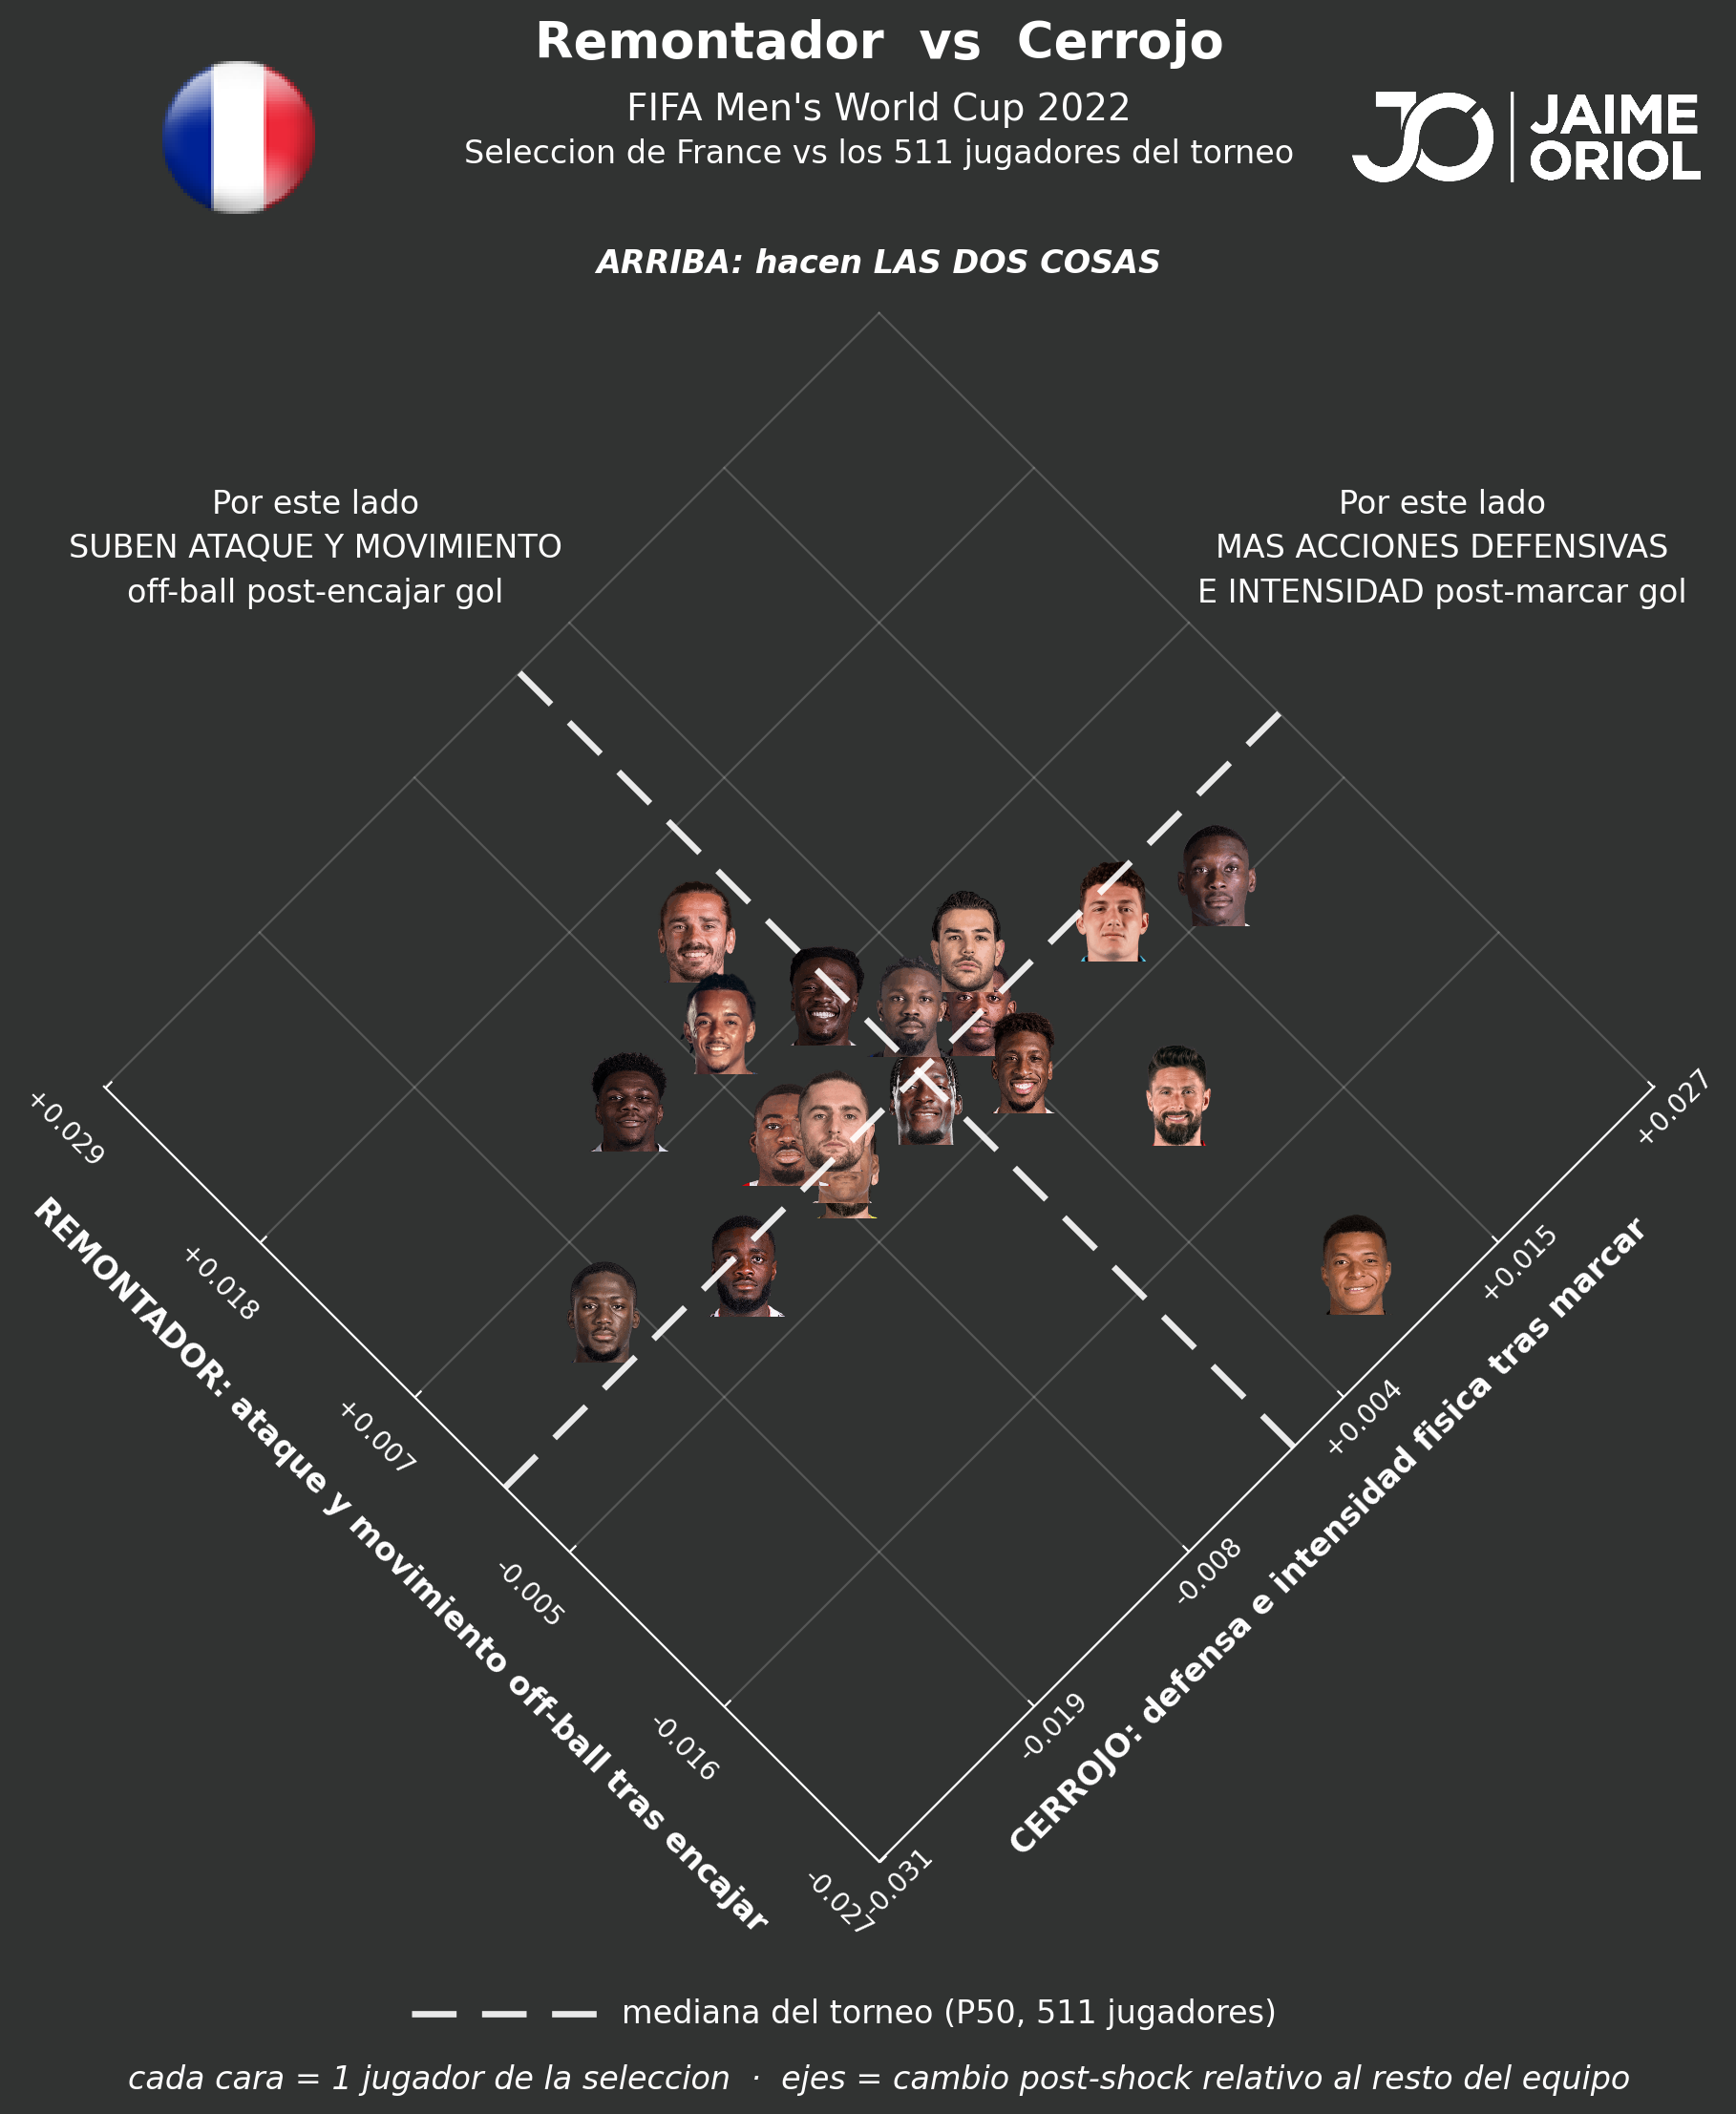
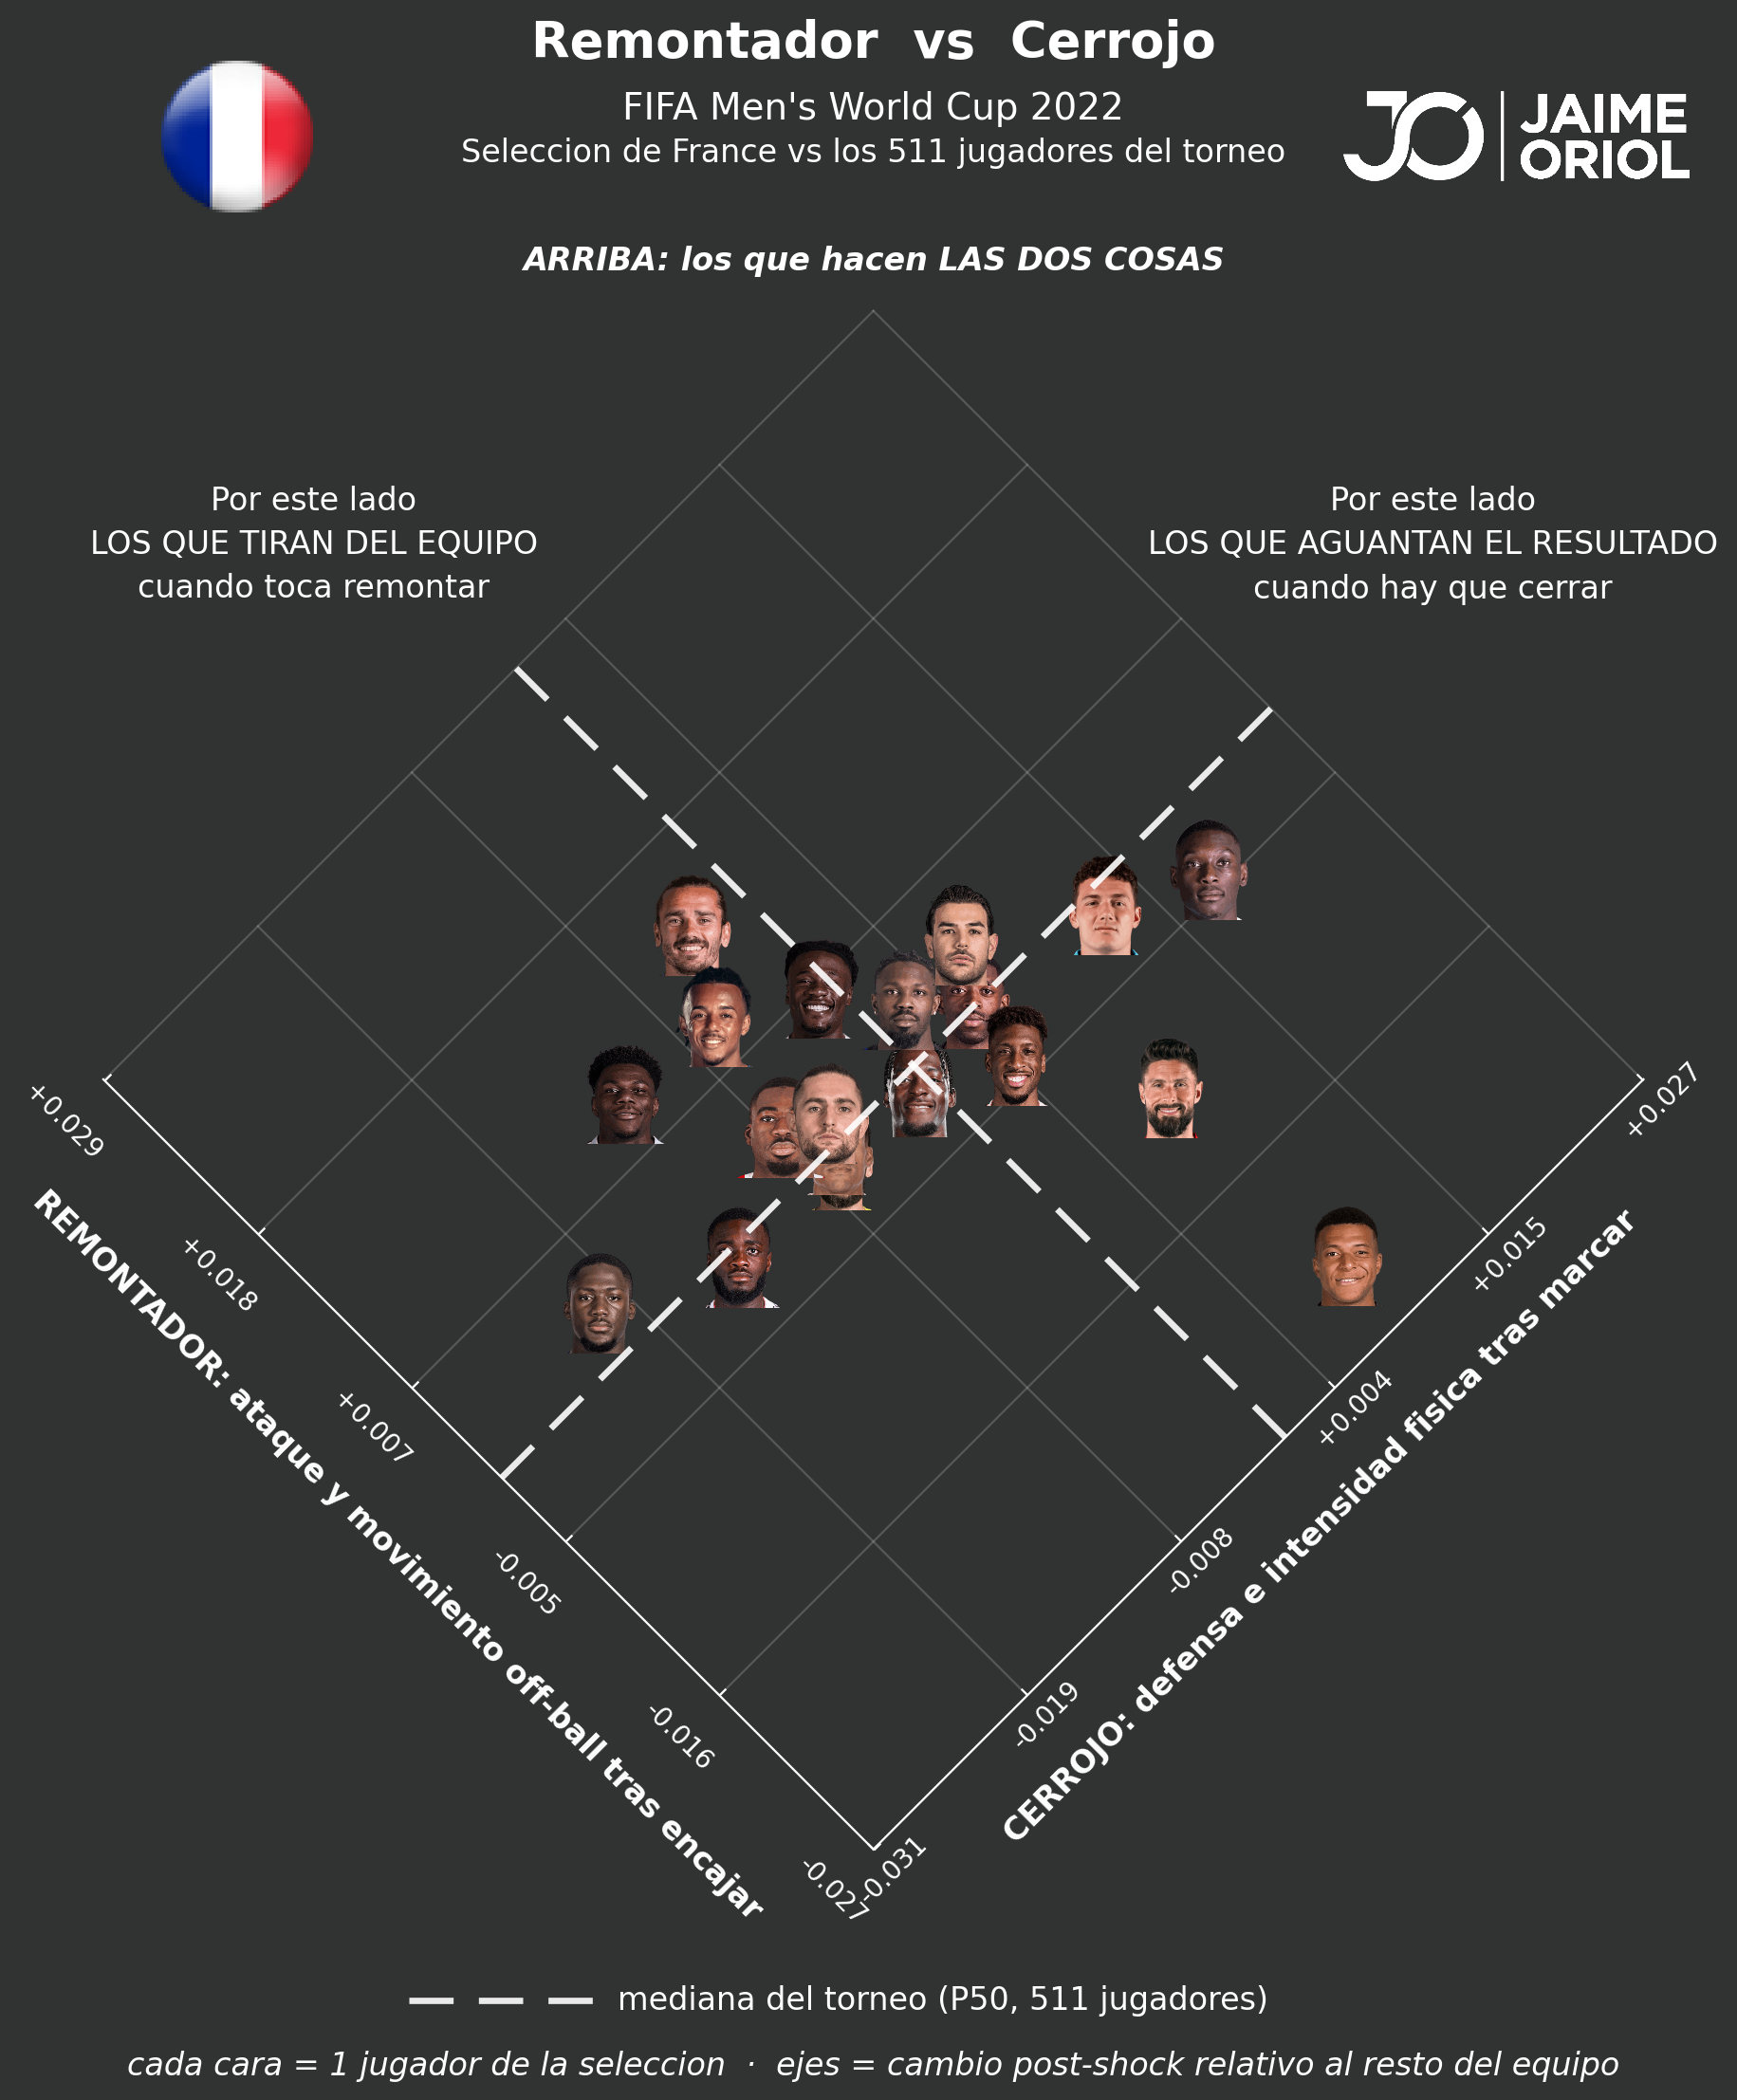
viz/scatter: coherencia global<->team (mismos textos por concepto) + foot_ejes por panel; barre refs viejas (killer/big-game/4 paneles) en docstrings, __init__ y __main__

diff --git a/src/viz/scatter_team.py b/src/viz/scatter_team.py
@@ -1,4 +1,4 @@
-"""scatter_team - 4 diamond scatters por seleccion con CARAS de jugadores.
+"""scatter_team - 2 diamond scatters por seleccion con CARAS de jugadores.
 
 Misma estetica que scatter.py (diamante rotado 45 grados, mediana global,
 mensajes laterales) pero filtrado a 1 seleccion y ploteando la CARA del
@@ -50,17 +50,19 @@ _TEAM_TO_SLUG = {
 
 _TICKS = [0.0, 0.2, 0.4, 0.6, 0.8, 1.0]      # 6 marcas por eje del diamante
 
-# Configuracion de los 4 paneles. side_left/right/top = textos en cada esquina
-# del diamante. La interpretacion fina de cada canal va en el TFM, no en la viz.
+# Configuracion de los 2 paneles. side_left/right/top = textos en cada esquina
+# del diamante; foot_ejes = glosa del pie (que miden los ejes). Mismos textos
+# que el scatter global por concepto (coherencia entre global y team).
 _PAIRS = [
     dict(
         x="chasing_clutch_idx",      y="protecting_clutch_idx",
         x_label="REMONTADOR: ataque y movimiento off-ball tras encajar",
         y_label="CERROJO: defensa e intensidad fisica tras marcar",
-        side_left="SUBEN ATAQUE Y MOVIMIENTO\noff-ball post-encajar gol",
-        side_right="MAS ACCIONES DEFENSIVAS\nE INTENSIDAD post-marcar gol",
-        top="ARRIBA: hacen LAS DOS COSAS",
+        side_left="LOS QUE TIRAN DEL EQUIPO\ncuando toca remontar",
+        side_right="LOS QUE AGUANTAN EL RESULTADO\ncuando hay que cerrar",
+        top="ARRIBA: los que hacen LAS DOS COSAS",
         title="Remontador  vs  Cerrojo",
+        foot_ejes="ejes = cambio post-shock relativo al resto del equipo",
         slug="remontador_cerrojo"),
     dict(
         x="cate_ataque_GOAL_FOR_mean", y="cate_ataque_PRESSURE_mean",
@@ -70,6 +72,7 @@ _PAIRS = [
         side_right="DAN UN PASO ADELANTE\ncuando el equipo roza la eliminacion",
         top="ARRIBA: los que hacen LAS DOS COSAS",
         title="Ataque tras marcar  vs  bajo presion",
+        foot_ejes="ejes = valor ofensivo post-shock",
         slug="ataque_marcar_presion"),
 ]
 
@@ -206,8 +209,7 @@ def diamond_team(df_full: pl.DataFrame, team: str, pair: dict,
     fig.text(0.365, leg_y, "mediana del torneo (P50, 511 jugadores)",
               ha="left", va="center", color=WHITE, fontsize=12)
     fig.text(0.50, leg_y - 0.030,
-              "cada cara = 1 jugador de la seleccion  ·  ejes = cambio post-shock "
-              "relativo al resto del equipo",
+              f"cada cara = 1 jugador de la seleccion  ·  {pair['foot_ejes']}",
               ha="center", va="center", color=WHITE, fontsize=12, style="italic")
 
     save_path = Path(save_path)
@@ -219,7 +221,7 @@ def diamond_team(df_full: pl.DataFrame, team: str, pair: dict,
 
 
 def scatter_team_all(df: pl.DataFrame, team: str, out_dir: Path) -> list[Path]:
-    """Genera los 4 diamond scatters individuales del equipo."""
+    """Genera los 2 diamond scatters individuales del equipo."""
     out_dir = Path(out_dir); out_dir.mkdir(parents=True, exist_ok=True)
     team_slug = team.lower().replace(" ", "_")
     paths = []

diff --git a/src/viz/scatter.py b/src/viz/scatter.py
@@ -1,13 +1,13 @@
 """scatter - Diamond scatters globales del PCJ (511 jugadores del torneo).
 
 Diamante rotado 45 grados (floating_axes). Cada punto = 1 jugador, coloreado
-por percentil combinado (PCT_CMAP). Top combinado + destacados por eje con su CARA
-(FotMob) en vez de etiqueta. Lineas mediana globales -> 4 cuadrantes.
+por percentil combinado (PCT_CMAP). Top combinado + destacados por eje, cada
+uno con su CARA (FotMob). Lineas mediana globales -> 4 cuadrantes.
 
 2 conceptos (config-driven via SCATTERS):
-  1. remontador_cerrojo : Remontador x Cerrojo (los 2 perfiles de la propuesta).
-  2. killer_biggame     : Ataque post-GF x Ataque pre-elim (los 2 unicos ejes
-                          con spread real; donde el shock deja huella medible).
+  1. remontador_cerrojo    : Remontador x Cerrojo (los 2 perfiles de la propuesta).
+  2. ataque_marcar_presion : Ataque post-GF x Ataque pre-elim (los 2 unicos ejes
+                             con spread real; donde el shock deja huella medible).
 
 Misma estetica que scatter_team.py (header logo WC22 + leyenda dashed +
 carteles en los triangulos vacios). Indices PCJ son CATEs con signo, asi que
@@ -108,8 +108,8 @@ def diamond_scatter(df: pl.DataFrame, config: str | dict = "remontador_cerrojo",
         combo = pdf[(pdf["_px"] >= 75) & (pdf["_py"] >= 75)]
     combo = combo.assign(_tot=combo["_px"] + combo["_py"]).nlargest(10, "_tot")
     # ... + (b) los 2 mejores de CADA eje individual que NO esten ya en el
-    # top-10 combinado (p.ej. un atacante top en big-game pero medio en
-    # ataque-tras-marcar igual merece su cara). Max 2 por eje.
+    # top-10 combinado (p.ej. un atacante top en ataque-bajo-presion pero
+    # medio en ataque-tras-marcar igual merece su cara). Max 2 por eje.
     rest = pdf.loc[pdf.index.difference(combo.index)]
     spec_x = rest.nlargest(2, "_px").index
     spec_y = rest.nlargest(2, "_py").index

diff --git a/src/viz/__init__.py b/src/viz/__init__.py
@@ -5,8 +5,8 @@ logo JO Jaime Oriol como firma.
 
   common         estilo, colores, colormaps, draw_pitch, helpers
   ppcf           superficie PPCF sobre el campo (Z02 + tracking PFF)
-  scatter        diamond rotado 45 grados (chasing x protecting, 511 jug)
-  scatter_team   4 diamond por seleccion con caras (FotMob) como markers
+  scatter        2 diamond globales: Remontador x Cerrojo + ataque marcar/presion (511 jug)
+  scatter_team   2 diamond por seleccion con caras (FotMob) como markers
   radar          radar geometrico de 8 ejes (CATEs canal x shock)
   radar_report   radar + tabla percentil lado a lado (ficha scout completa)
   figures        event-study causal M12 + utilidades

diff --git a/src/viz/__main__.py b/src/viz/__main__.py
@@ -43,7 +43,7 @@ def make_all() -> None:
     # start_frame del evento del disparo; P2 regulacion = tracking limpio, sin espejo).
     ppcf.plot_ppcf(10517, 164933, save_path=_OUT / "ppcf_mbappe_2_2_final.png")
 
-    print("[viz] Scatters globales (Remontador x Cerrojo + Killer x Big-game, 511 jug)...")
+    print("[viz] Scatters globales (Remontador x Cerrojo + ataque marcar vs presion, 511 jug)...")
     _tbl = pl.read_parquet(_TABLE)
     for _key in ("remontador_cerrojo", "ataque_marcar_presion"):
         scatter.diamond_scatter(_tbl, config=_key,